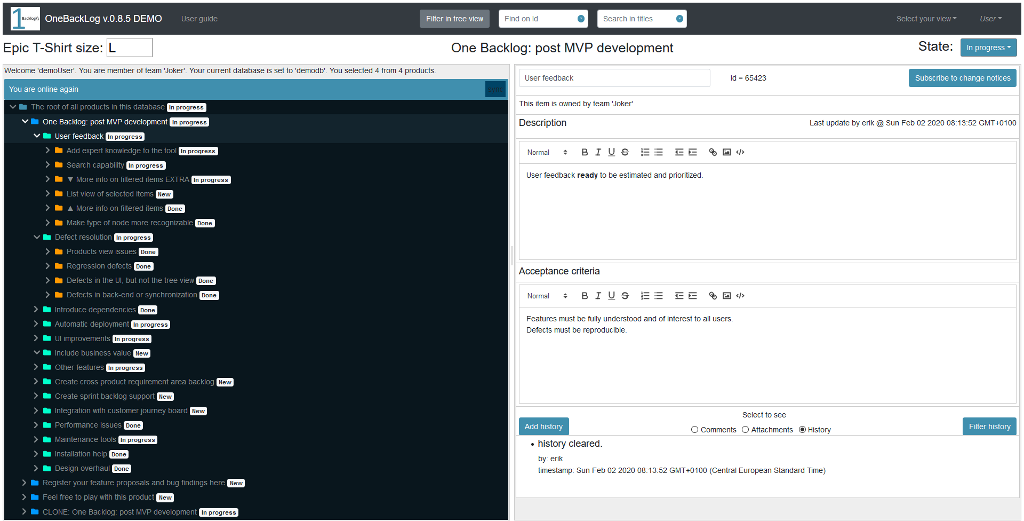
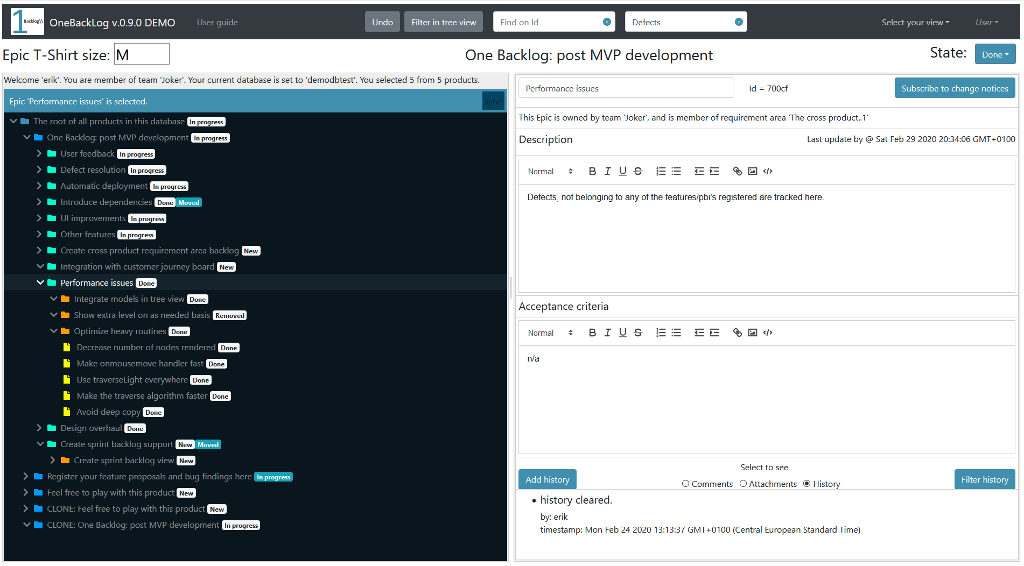
User guide and release nodes updated

diff --git a/src/components/rel-notes/rel-notes.vue b/src/components/rel-notes/rel-notes.vue
@@ -6,6 +6,18 @@
 			<b-col cols="12" class="left-column">
 				<h1>RELEASE NOTES</h1>
 				<p v-if=this.$store.state.demo>Note: This is a demo version of the application.</p>
+				<h3>v.0.9.0 - 1 March 2020 Major update</h3>
+				<p>New features:</p>
+				<ul>
+					<li>The requirement areas epic is implemented.</li>
+				</ul>
+				<p>Design changes:</p>
+				<ul>
+					<li>When switching between products and requirement areas view, current tree nodes are disposed and loaded new from the database. In the products view only the selected products are loaded up to the PBI level. In the requirement area view all products are loaded up to the feature level. </li>
+					<li>When loading the tree nodes only the needed document fields are transferred as values in the GET call. Eg. the description and acceptance criteria are not transferred. Also only the recent history is retrieved.</li>
+				</ul>
+				<p>By not transferring the full documents at load time loading is faster and memory usage limited. When the user selects an item the full ducument is loaded.</p>
+				<hr>
 				<h3>v.0.8.5.1 - 14 February 2020 Regression fix</h3>
 				<p>Bug fixes:</p>
 				<ul>

diff --git a/src/components/userguide/userguide.vue b/src/components/userguide/userguide.vue
@@ -78,7 +78,11 @@
 				</div>
 				<div id="rv">
 					<h4>Requirement areas view</h4>
-					<p>This view is not implemented yet.</p>
+					<p>The requirements areas PO or APO uses this view to define requirement areas and assign them to epics or features.</p>
+					<b-img :src="require('./requirement-areas-view.png')" alt="Requirement areas view" />
+					<p>This view shows all products in the database up to the feature level. When the APO also has PO priviliges he can move (prioritize) epis and features within products and between products.</p>
+					<b-img :src="require('./filters2.png')" alt="Example filters modal" />
+					<p>The filter modal is in this view can filter over one, several or all products and requirement areas.</p>
 				</div>
 				<div id="sv">
 				<h4>Users with special priviliges will see one or more of these view options:</h4>
